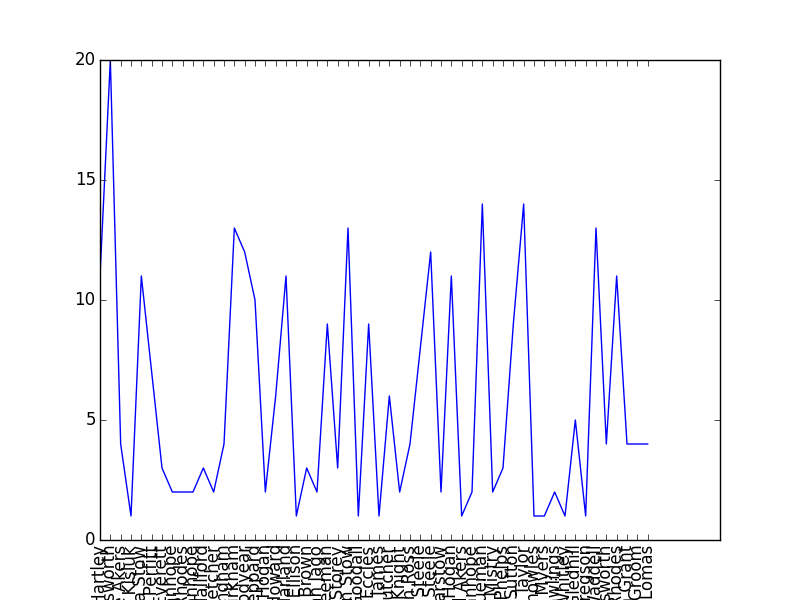
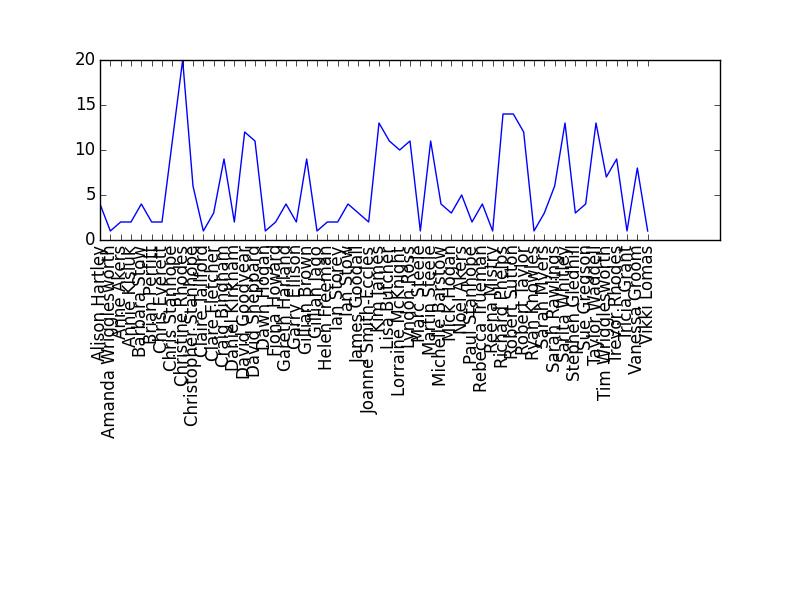
Working in VS

diff --git a/performance/performance.py b/performance/performance.py
@@ -47,22 +47,29 @@ def visualize_races(data_file):
 
     #  use 'counter' to count the races
     dates = []
-    # counter = Counter(item['Date'] for item in data_file) #  list comprehension: pyhonic loop construction
+    # counter = Counter(item['Date'] for item in data_file) #  list comprehension: pythonic loop construction
     runner_counter = Counter(item['Name'] for item in data_file)  # stores the number of races per runner
     print("runner counter is: ", runner_counter)
     runner_list = [runner for runner in sorted(runner_counter)]  # stores list of runners full names
     runner_list.pop(0)  # first value is the null value
     print("Runner list is :", runner_list)
     runner_data = [runner_counter[runner] for runner in runner_counter]  # Creates list of data points
-    runner_data.pop(0)  # first value is all the null rows
+    runner_data.pop(0)  # first value is all the null rows so we can remove it
     runner_tuple = tuple(sorted(runner_list))  # This will be the label. The results may be in a different order
-    # TODO edit x-axis label to reflect correct order - not alphabetical
-    print("runner_data is : ", runner_data)
-    print("runners :", runner_tuple)
-    print("runner_list", runner_list)
+    for runner in runner_tuple : print("next runner is : ", runner, "with ", runner_counter[runner], "runs")
+    #  TODO edit x-axis label to reflect correct order - not alphabetical
+    #  print("runner_data is : ", runner_data)
+    #  print("runners :", runner_tuple)
+    #  print("runner_list", runner_list)
+
+    # Give more room so x-axis labels aren't cut off
+    plt.subplots_adjust(bottom=0.6)  # subplots can be used to adjust spacing around the graph
+
     #  separate the x-axis (runners) from the counter variable for the y-axis - races per runner
 
     #  assign y-axis (counter) data to a matplotlib plot instance
+    #  runner_data = runner_data.sort
+    print("************ Runnder Data ************ ", runner_data)
     plt.plot(runner_data)
 
     #  create the number of ticks needed and assign labels
@@ -81,12 +88,14 @@ def visualize_type(new_data):
     """
 
     # grab parsed data
-    # new_data is passed as parameter until I work out how to parse(MY_FILR, ",") from here
+    # new_data is passed as parameter until I work out how to parse(MY_FILE, ",") from here
 
     # create counter to count category entries
     counter = Counter(item['Category'] for item in new_data)
     print(counter)
 
+    #  Add total distance run
+    print("first item in data is : ", new_data[0])
     # set the labels based on keys, order doesn't matter so can just use counter.keys()
     labels = tuple(counter.keys())
 
@@ -117,17 +126,21 @@ def visualize_type(new_data):
 
     return
 
+def total_distance(new_data):
+    for runner in new_data:
+        if runner['Miles'] != "" :
+            print("Runner", runner['Name'], "ran", runner['Miles'], "miles")
+
 def main():
     # Call our parse function with required file an delimiter
     new_data, race_count = parse(RUN_FILE, ',')
-    print("this is our data", new_data)
     print("There were this number of races: ", race_count)
-    print(new_data[0].keys())
+    print("The keys in the data are:", new_data[0].keys())
     #  for dict_item in new_data:
         #  print(type(dict_item["Name"]))
         #  print(dict_item["Date"])
     visualize_races(new_data)
     visualize_type(new_data)
-
+    total_distance(new_data)
 if __name__ == "__main__":
     main()

diff --git a/performance/workingfile.py b/performance/workingfile.py
@@ -1,0 +1,22 @@
+__author__ = 'Steve'
+# testing
+import matplotlib.pyplot as plt
+import numpy as np
+import csv
+from performance import parse
+
+RUN_FILE = 'pythonrunning.csv'
+
+def main():
+    # Call our parse function with required file an delimiter
+    new_data, race_count = parse(RUN_FILE, ',')
+    print("this is our data", new_data)
+    print("There were this number of races: ", race_count)
+    print(new_data[0].keys())
+    #  for dict_item in new_data:
+        #  print(type(dict_item["Name"]))
+        #  print(dict_item["Date"])
+
+if __name__ == "__main__":
+    main()
+
